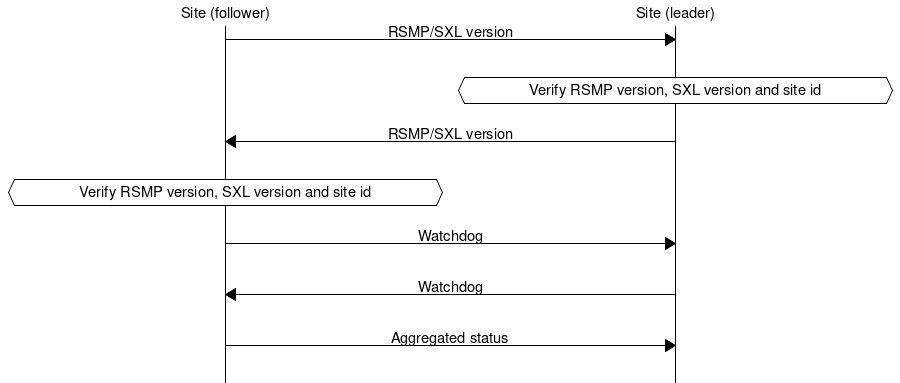
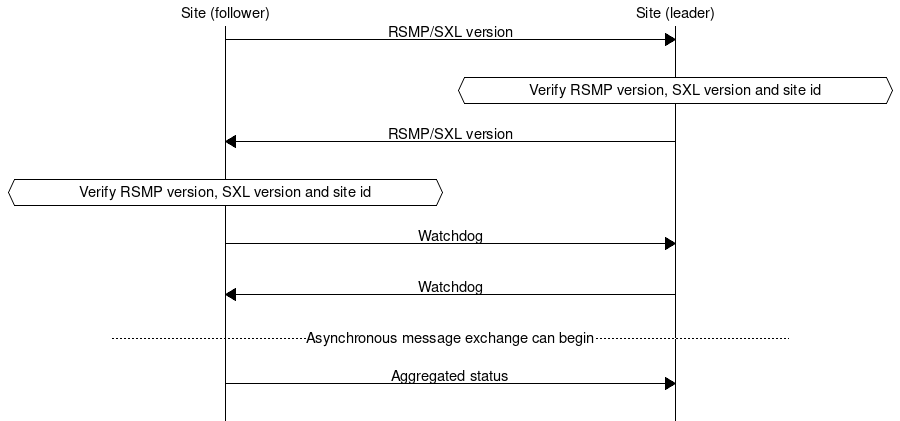
Update documentation

diff --git a/docs/core/3.2-draft/searchindex.js b/docs/core/3.2-draft/searchindex.js
@@ -1,1 +1,1 @@
-Search.setIndex({docnames:["applicability","applicability/basic_structure","applicability/object_model","applicability/scope","applicability/sxl","applicability/transport_of_data","changelog","definitions","index","introduction","purpose"],envversion:{"sphinx.domains.c":1,"sphinx.domains.changeset":1,"sphinx.domains.cpp":1,"sphinx.domains.javascript":1,"sphinx.domains.math":2,"sphinx.domains.python":1,"sphinx.domains.rst":1,"sphinx.domains.std":1,sphinx:55},filenames:["applicability.rst","applicability/basic_structure.rst","applicability/object_model.rst","applicability/scope.rst","applicability/sxl.rst","applicability/transport_of_data.rst","changelog.rst","definitions.rst","index.rst","introduction.rst","purpose.rst"],objects:{},objnames:{},objtypes:{},terms:{"018d5796e86a":1,"01t11":1,"02t14":5,"05070016f64a":1,"08t08":1,"08t09":1,"08t11":1,"08t12":1,"0a95e463":1,"0cfa956512e0":1,"0fd63726":1,"0x09":5,"0x0a":5,"0x0c":5,"0x0d":5,"166z":1,"192a":1,"266z":1,"280c52b6e6d8":1,"293z":1,"29t08":1,"29t13":1,"2a744145":1,"2b8142923c55":1,"2ea7edfc":1,"3313526e":1,"345z":5,"390z":1,"3a9d":1,"3d2a0097":1,"403a":1,"40a0":1,"416cg100":1,"41ac":1,"423f":1,"424e":1,"42ff":1,"431a":1,"434a":1,"44a4":1,"44f5":5,"45f8093762c5":1,"47a661e116db":1,"481wa001":1,"48451735cb0b":1,"49c6c824":1,"4abc":1,"4bc4":1,"4c09":1,"4c16":1,"4c19":1,"4db9":1,"4dd7":1,"4de5":1,"554dff0":1,"571z":1,"584z":1,"5c80a72c7092":1,"5ff528c5":1,"654z":1,"691z":1,"6bbcb26e":1,"6c9233":5,"6f968141":1,"70b55e312584":1,"735z":1,"740z":1,"78fe":1,"800c":1,"85e7":1,"860sg001":1,"860va001":1,"86bd":1,"881wa001":5,"8b57":1,"8bb4f972c076":1,"8c50":1,"8ca4":1,"8ddf":1,"8e3a":1,"956b":1,"97a9":1,"9c7b":1,"9cc5":1,"9e3d":1,"abstract":7,"boolean":1,"byte":5,"case":[1,3,4],"class":2,"default":[1,5],"float":1,"function":[0,1,3,7,8],"import":4,"long":[1,10],"new":[1,4,10],"null":1,"public":7,"short":1,"true":1,"try":5,"while":[4,5],CTS:7,For:[1,4,5,10],ITS:7,NTS:[1,4,7],Not:4,One:[1,5],TLS:5,The:[1,2,3,4,5,7,9,10],There:[1,4],Use:5,Used:[1,4,7],Yes:[4,5],a0001:1,a0004:1,a001:5,a021bc01:1,a082:5,a204c:5,a335:1,aTs:[1,5],abil:1,abl:[4,5,10],about:[1,4,10],accord:[1,4,5],acid:[1,5],ack:[1,5],acknowledeg:1,acknowledg:[0,5,8],act:5,action:[1,10],activ:[1,5],actual:[1,4],adapt:4,add:[1,10],added:4,addit:[1,10],address:5,adf832f22420:1,adf832f22425:1,adjust:5,administr:[3,7,10],adopt:2,affect:1,after:[1,5],again:[1,5],age:1,aggreg:[0,4,5,7,8,10],aggregatedstatu:1,aggregatedstatusrequest:1,agre:5,aim:9,alarm:[0,4,5,7,8,10],alarmcodeid:[1,4],all:[1,4,5,7,10],allow:[1,3,5],alorithm:7,alreadi:1,also:[1,4,10],alter:10,alwai:[1,5],among:7,analogu:1,analysi:10,ani:[1,3,5],answer:5,anyth:5,appli:[1,4,5],applic:[4,5,8,10],approach:1,area:[4,10],arg:1,argument:1,arrai:1,arrang:5,ascii:5,asn:2,asp:[1,5],associ:[1,4],ast:1,asynchron:5,attach:4,author:7,automat:4,autonom:4,ayyyi:1,b335:1,b4dd:1,b4e0:5,b6579d6d:1,b6bd7c96:1,b744:1,b777:1,b90a:1,ba80:1,base64:[1,4],base:[5,10],basecyclecount:1,basi:5,basic:[0,4,8],bb8a:1,bbcdd:7,bd58:1,be12ab9a:1,be19:1,becaus:[1,5],becom:[1,2],been:[1,2,10],befor:1,begin:5,being:[1,4],belong:1,below:[1,4],benefit:4,best:[0,8],between:[0,2,7,8,9,10],binari:[1,4,5],bitmap:4,block:4,both:[1,4,5,7],broken:10,buffer:[1,5],bus:5,c336:1,c7c47f57e100:1,cTS:1,camera:7,can:[1,2,3,4,5,7,10],card:10,cast:1,cat:[1,5],categor:4,categori:1,caus:1,cci:1,ceas:5,certif:5,cf76365e:1,chain:10,chang:[1,7,8,10],changelog:6,charact:[1,5],choic:1,cid:[1,5],circumst:7,clarifi:[4,6],classif:7,client:5,clock:[1,4,5],close:5,co_:1,code:[1,4,5,7],collabor:7,color:[1,5],column:[1,4],combin:1,come:5,command:[0,5,7,8,10],commandcodeid:[1,4],commandrequest:1,commandrespons:1,comment:1,common:4,commun:[0,1,2,4,7,8,9,10],communc:1,compar:4,compens:4,complet:5,compon:[1,5,7],componentid:1,concept:[5,7],concurr:5,configur:[1,4,5],confirm:1,conform:4,connect:[1,5],consecut:5,consequ:[3,5],consist:[2,7],consortium:7,construct:[1,10],consumpt:1,contain:[1,5,10],conten:4,content:[1,5,8],continu:[1,5],contract:10,contractor:10,control:[1,4,5,7,10],cooper:[1,5],correct:[1,4,10],correl:[1,4],correspond:4,could:[4,5],coupl:1,cover:[7,10],creat:[8,10],current:[1,5],cyclecount:1,d107cdfc3fcf:1,d109f4cfe487:1,d2c2da636584:1,d2e9a9a1:5,d593:1,d6d97f8b:1,dabb67f9:1,dac702545b8f:1,dash:1,data:[0,1,8],date:[1,6],datetim:1,datex2:[2,7],datex:[2,7],db844c4702a0:1,deactiv:1,deal:5,decim:1,decod:5,defin:[1,2,4,5,7,10],definit:[0,1,8],depend:[4,5,7,10],describ:[1,2,3,10],descript:[1,4],deserialis:1,design:4,desir:[1,4],destin:[1,5],detail:[1,4,10],detect:[1,5],determin:[1,4,7],develop:7,devic:5,differ:[1,5],digit:1,direct:[1,9],directli:[1,4,5],disabl:[1,4],disadvantag:4,disconnect:1,discrep:1,disrupt:[0,1,8],distinguish:5,document:[1,3,4,9],doe:[1,5],doesn:4,dot:1,doubl:1,driven:[1,5],driver:1,due:4,durat:1,dure:[1,5],dynam:[4,10],e68a0010:1,e6fb:1,e9db:1,each:[1,4,5,10],easi:5,easili:10,eeeffggg:7,effect:1,either:[1,4,5,10],element:[1,4],els:5,embed:5,emerg:4,empti:1,enabl:1,encrypt:5,end:[1,5],engin:[4,10],ensur:[1,5],enter:4,equip:[4,5,7,9,10],error:[1,5,10],especi:4,establish:[0,1,4,8],etc:[1,10],european:7,event:[1,5],eventu:2,everi:[1,4,5],exact:5,exactli:4,exampl:[1,4,5,10],except:[1,5],exchang:[0,5,7,8,10],exist:[1,4,5,7],expand:10,expect:5,explan:4,explicitli:1,express:1,extendedinputstatu:1,extens:7,extern:7,externalalarmcodeid:1,externalntsalarmcodeid:1,externalntsid:[1,4,7],extra:4,f04feda16986:1,f094946a863:1,f150:1,f1a13213:1,f2f0:1,f38e283a778:1,f48900bc:1,f6843ac0:1,f91c:1,facil:10,fail:5,failur:5,fals:1,fan:1,fetch:1,field:[4,5,7],fifo:5,fig:1,figur:[1,5],fire:1,first:[1,5],fit:4,fix:1,flexibl:4,flow:[5,7],focus:10,follow:[1,4,5],forc:1,format:[1,2,4,5,7],forme:5,formfe:5,four:10,free:1,from:[1,4,5,7,10],front:4,full:1,functionalposit:[1,4],functionalst:1,gener:[1,3,9],get:[1,4],give:[1,5,10],given:[1,4],glanc:10,global:1,goal:10,good:5,group:[1,7],guid:[1,4],guidelin:[8,10],handl:[1,5],has:[1,2,4,10],have:[4,7,10],heavili:1,help:4,hex:5,high:[1,4],histor:5,host:5,hour:1,how:[2,4,7],howev:[2,5],ident:[1,4,5],identifi:[1,4,5,7,8],ids:1,immedi:1,implement:[1,2,3,4,5],implicit:[1,5],impuls:1,inact:[1,5],inactiv:1,incl:5,includ:[1,2,5,10],incom:5,incorrectli:5,independ:2,indic:[1,10],individu:[1,4],inform:[1,3,4,10],initi:[1,5,6],inputstatu:1,instal:10,instanc:[1,4,10],instead:1,insuffici:1,integ:1,intent:1,interact:[1,5],interfac:[3,4,5,7,10],intern:[1,2,5],internet:7,intersect:1,interv:[1,5,10],introduct:8,iso:1,issu:[1,5],ital:4,item:10,its:[1,2],javascript:7,json:[1,2,5,7],know:5,known:[1,4],lack:[1,5],lamp:[1,5],languag:7,later:[2,5],latest:1,leach:1,lead:3,leader:5,least:[1,5],led:[4,10],level:[1,4,7,10],light:5,limit:4,line:1,list:[0,1,5,7,8,10],local:[1,7,10],log:[8,10],logic:[1,4],loos:1,lost:[1,5],low:4,lower:4,m0001:1,made:[5,7,10],mai:[4,5,7],maintain:7,mainten:[1,4,7],make:[4,5],manag:[4,5,7,10],mangement:[0,8],mani:[1,3,4,7,10],manouv:4,manual:1,manufactur:1,mark:1,markup:7,match:5,maximo:[7,10],mean:[1,4,10],mechan:3,messag:[0,5,7,8,10],messageack:[1,5],messagenotack:[1,5],meta:2,mid:[1,5],might:5,minimum:5,minor:6,minut:1,mismatch:5,miss:4,mix:1,model:[0,1,8],modif:4,monitor:[5,10],more:[1,4,7],mostli:4,motorist:1,mtype:[1,5],multipl:[0,1,8],must:[1,4,5],myyyi:1,name:[1,4,6,10],nation:7,natur:1,necessari:10,necessarili:7,need:[1,3,4,5,10],net:5,never:1,next:1,nordic:[3,7],notack:5,notacknowledg:[1,5],notat:7,note:[1,4,7],notion:4,notsuspend:[1,5],ntsobjectid:1,ntsoid:[1,5],number:[1,4],numer:1,object:[0,5,7,8,10],objecttyp:1,occur:[1,5,10],och:1,offer:9,old:[1,5],older:5,omid:1,omit:1,onc:[1,5],one:[4,5,7],ones:5,onli:[1,3,4,5],oper:10,oppos:10,option:[1,4,5],order:[1,4,5,10],organ:7,origin:1,other:[2,5,7,10],otherwis:[1,5],out:10,outag:5,outgo:5,outsid:3,overal:4,overview:10,own:[4,5],packet:[0,1,8],panel:10,paramet:4,pars:1,parser:5,part:[1,4,5],parti:[1,3],partial:1,particular:[1,5],partli:4,perform:[1,4,5],physic:7,pictur:4,place:1,plan:1,pleas:[1,4,7],point:[1,4],port:5,posit:[1,4,7],possibl:[1,2,4,5,7],power:[1,5],practic:[0,5,8],precis:1,predefin:[1,4],prerequisit:[1,4],present:[1,4,7,9],previous:5,pri:[1,5],primari:1,principl:[1,4,5,10],prioriti:[1,5],proce:5,process:[1,4],produc:10,properti:7,protocol:[2,3,4,6,7,9,10],provid:[1,2,3,4,10],purchas:[1,5],pure:5,purpos:[1,4,5,8],push:5,qualiti:1,rate:1,rea:1,reach:[1,5],read:[5,10],real:1,reason:[1,2,5],receiv:[1,5],recent:1,recommend:4,reconnect:[1,5],red:[1,5],reduc:[4,5],refer:[1,4],reflect:[1,4],regard:1,regardless:[1,5,9,10],region:[7,10],reject:5,relat:[1,7,10],relationship:[0,8],relev:[1,4],reliabl:5,remain:[1,5],remov:10,renam:4,renew:5,replac:[5,7],repres:[1,7,10],request:[0,4,5,8,10],requir:[0,1,5,8],reset:5,respect:4,respond:[1,4,5],respons:[0,4,5,8],rest:4,restart:[1,5],restor:5,resum:1,reus:10,revis:[1,6],rfc:1,risk:[4,5],road:[7,9,10],room:1,row:4,rsmp:[0,3,5,7],rsmsg:[1,5],rule:2,rvs:[1,5],s0001:1,s0003:1,s0096:1,sTs:1,salz:1,same:[1,4,5,7,9,10],samt:4,save:5,sci:1,scope:[0,8],search:5,second:[1,5],secondari:[1,5],section:[1,4,5],secur:[0,8],securitycod:1,see:[1,5,7],send:[1,4,5,7],sendonchang:1,sensit:1,sent:[1,4,5,10],separ:5,sequenc:[1,4,5],seri:4,serial:5,seriou:1,serv:5,server:5,set:[1,2,4,5,10],setvalu:1,sever:5,share:4,shift:1,shortli:1,should:[1,4,5,10],show:1,sid:1,side:[7,9,10],sign:[1,7],signal:[0,1,5,7,8,10],signalgroupstatu:1,simpl:[1,5],simplifi:[1,4],simultan:5,sinc:[1,4,5],singl:1,site:[0,2,4,7,8,10],siteid:[1,4,5],size:5,skill:10,soc:1,socket:5,some:[4,5],someth:1,soon:[1,10],sourc:[5,7],special:[4,5],specif:[1,3,4,7,10],specifi:7,speed:1,ssl:5,sta:[1,7],stage:1,standard:[1,2,7,9,10],start:[1,4],state:5,statist:10,statu:[0,5,7,8,10],status:[1,5,7],statuscodeid:[1,4],statusrequest:1,statusrespons:1,statussubscrib:1,statusunsubscrib:1,statusupd:1,stop:[1,4],store:5,string:1,structur:[0,8],subscrib:[1,5],subscript:[4,5,10],subsystem:1,success:1,suffici:10,suffix:[1,4],suggest:4,suitabl:4,supervis:[0,2,4,7,8,9,10],supervisor:[0,8],supplier:[3,9,10],support:[1,4,5,7],sure:4,suspend:5,suspens:1,swedish:[3,7,10],sxl:[0,5,7,8,10],synchron:[1,4],system:[0,2,4,7,8,9,10],syyyi:1,tab:5,tabl:[1,4],tag:[1,5],tcp:[5,7],tdok:[1,4,7],technic:[1,4,10],technolog:[2,10],temp:1,temperatur:1,term:[7,10],termin:[1,5],text:[1,4,5],than:[1,5],thei:[5,10],them:5,therefor:5,thi:[1,2,3,4,5,9,10],thing:7,third:3,those:[3,4,5],three:5,time:[1,10],timeout:1,timestamp:[1,5],timetamp:1,titl:[1,4],track:1,traffic:[1,4,5,7,10],transfer:[3,7],transit:1,transmit:4,transport:[0,3,7,8,10],treat:1,trick:5,tricki:5,troubleshoot:4,tunnel:1,two:1,type:[1,5,7,9,10],unblock:1,undefin:1,under:4,understood:1,unicod:1,uniq:1,uniqu:[1,4],unknown:1,unless:[1,5],unsubscrib:1,unsuccess:1,unsuspend:[1,5],until:1,updat:[1,4,5],updater:1,upon:[5,10],urt:1,use:[1,3,5,7],used:[1,4,5,7,10],user:[1,5],uses:[1,2,4,5],using:[1,2,4,5,7,10],usual:[1,10],utc:[1,4],utf:1,uuid:1,valu:5,variabl:1,variou:2,vehicl:1,vendor:10,ver:1,veri:5,verifi:[1,5],version:[0,5,6,8],via:[5,10],visibl:10,w3c:[1,7],wTs:1,wai:[1,2,5,9,10],wait:[1,5],watchdddog:1,watchdog:[0,5,6,8],web:[7,10],well:[5,10],were:5,when:[1,4,5,10],where:[1,4],which:[1,4,5,7,10],who:3,why:[1,2],wide:7,wind:1,within:[1,3],without:[1,5,10],won:5,work:[1,4,9,10],world:7,wrap:[0,8],written:4,wrong:5,www:7,xacid:[1,5],xml:[1,2,5,7],xnacid:[1,5],xnid:[1,5],yellowflash:1,yes:5,yyyi:1},titles:["4. Applicability","4.4. Basic structure","4.2. Object model","4.1. Scope","4.5. Signal Exchange List","4.3. Transport of data","5. Change log","1. Definitions","RSMP Specification","2. Introduction","3. Purpose"],titleterms:{"function":4,"return":[1,4],acknowledg:1,aggreg:1,alarm:1,answer:1,applic:0,argument:4,basic:1,best:4,between:[1,4,5],bit:1,chang:[4,6],command:[1,4],commun:5,compon:4,current:4,data:[4,5],date:4,definit:[4,7],differ:4,disrupt:5,equip:1,establish:5,exchang:[1,4],first:4,group:4,identifi:10,introduct:9,list:4,log:6,mangement:4,messag:[1,4],model:2,multipl:5,object:[1,2,4],one:1,oper:4,other:[1,4],overview:4,packet:5,page:4,practic:4,purpos:10,read:4,relationship:4,request:1,requir:[4,10],respons:[1,3],returnvalu:1,revis:4,rsmp:[1,4,8],scope:3,secur:5,sever:1,sheet:4,signal:4,singl:4,site:[1,5],specif:8,state:[1,4],statu:[1,4],structur:[1,4],subscript:1,supervis:[1,5],supervisor:5,suspend:1,sxl:[1,4],system:[1,5],time:4,transport:5,type:4,unsubscript:1,valu:[1,4],version:[1,4],watchdog:1,wrap:5,write:4}})
+Search.setIndex({docnames:["applicability","applicability/basic_structure","applicability/object_model","applicability/scope","applicability/sxl","applicability/transport_of_data","changelog","definitions","index","introduction","purpose"],envversion:{"sphinx.domains.c":1,"sphinx.domains.changeset":1,"sphinx.domains.cpp":1,"sphinx.domains.javascript":1,"sphinx.domains.math":2,"sphinx.domains.python":1,"sphinx.domains.rst":1,"sphinx.domains.std":1,sphinx:55},filenames:["applicability.rst","applicability/basic_structure.rst","applicability/object_model.rst","applicability/scope.rst","applicability/sxl.rst","applicability/transport_of_data.rst","changelog.rst","definitions.rst","index.rst","introduction.rst","purpose.rst"],objects:{},objnames:{},objtypes:{},terms:{"018d5796e86a":1,"01t11":1,"02t14":5,"05070016f64a":1,"08t08":1,"08t09":1,"08t11":1,"08t12":1,"0a95e463":1,"0cfa956512e0":1,"0fd63726":1,"0x09":5,"0x0a":5,"0x0c":5,"0x0d":5,"166z":1,"192a":1,"266z":1,"280c52b6e6d8":1,"293z":1,"29t08":1,"29t13":1,"2a744145":1,"2b8142923c55":1,"2ea7edfc":1,"3313526e":1,"345z":5,"390z":1,"3a9d":1,"3d2a0097":1,"403a":1,"40a0":1,"416cg100":1,"41ac":1,"423f":1,"424e":1,"42ff":1,"431a":1,"434a":1,"44a4":1,"44f5":5,"45f8093762c5":1,"47a661e116db":1,"481wa001":1,"48451735cb0b":1,"49c6c824":1,"4abc":1,"4bc4":1,"4c09":1,"4c16":1,"4c19":1,"4db9":1,"4dd7":1,"4de5":1,"554dff0":1,"571z":1,"584z":1,"5c80a72c7092":1,"5ff528c5":1,"654z":1,"691z":1,"6bbcb26e":1,"6c9233":5,"6f968141":1,"70b55e312584":1,"735z":1,"740z":1,"78fe":1,"800c":1,"85e7":1,"860sg001":1,"860va001":1,"86bd":1,"881wa001":5,"8b57":1,"8bb4f972c076":1,"8c50":1,"8ca4":1,"8ddf":1,"8e3a":1,"956b":1,"97a9":1,"9c7b":1,"9cc5":1,"9e3d":1,"abstract":7,"boolean":1,"byte":5,"case":[1,3,4],"class":2,"default":[1,5],"float":1,"function":[0,1,3,7,8],"import":4,"long":[1,10],"new":[1,4,10],"null":1,"public":7,"short":1,"true":1,"try":5,"while":[4,5],CTS:7,For:[1,4,5,10],ITS:7,NTS:[1,4,7],Not:4,One:[1,5],TLS:5,The:[1,2,3,4,5,7,9,10],There:[1,4],Use:5,Used:[1,4,7],Yes:[4,5],a0001:1,a0004:1,a001:5,a021bc01:1,a082:5,a204c:5,a335:1,aTs:[1,5],abil:1,abl:[4,5,10],about:[1,4,10],accord:[1,4,5],acid:[1,5],ack:[1,5],acknowledeg:1,acknowledg:[0,5,8],act:5,action:[1,10],activ:[1,5],actual:[1,4],adapt:4,add:[1,10],added:4,addit:[1,10],address:5,adf832f22420:1,adf832f22425:1,adjust:5,administr:[3,7,10],adopt:2,affect:1,after:[1,5],again:[1,5],age:1,aggreg:[0,4,5,7,8,10],aggregatedstatu:1,aggregatedstatusrequest:1,agre:5,aim:9,alarm:[0,4,5,7,8,10],alarmcodeid:[1,4],all:[1,4,5,7,10],allow:[1,3,5],alorithm:7,alreadi:1,also:[1,4,10],alter:10,alwai:[1,5],among:7,analogu:1,analysi:10,ani:[1,3,5],answer:5,anyth:5,appli:[1,4,5],applic:[4,5,8,10],approach:1,area:[4,10],arg:1,argument:1,arrai:1,arrang:5,ascii:5,asn:2,asp:[1,5],associ:[1,4],ast:1,asynchron:5,attach:4,author:7,automat:4,autonom:4,ayyyi:1,b335:1,b4dd:1,b4e0:5,b6579d6d:1,b6bd7c96:1,b744:1,b777:1,b90a:1,ba80:1,base64:[1,4],base:[5,10],basecyclecount:1,basi:5,basic:[0,4,8],bb8a:1,bbcdd:7,bd58:1,be12ab9a:1,be19:1,becaus:[1,5],becom:[1,2],been:[1,2,10],befor:1,begin:5,being:[1,4],belong:1,below:[1,4],benefit:4,best:[0,8],between:[0,2,7,8,9,10],binari:[1,4,5],bitmap:4,block:4,both:[1,4,5,7],broken:10,buffer:[1,5],bus:5,c336:1,c7c47f57e100:1,cTS:1,camera:7,can:[1,2,3,4,5,7,10],card:10,cast:1,cat:[1,5],categor:4,categori:1,caus:1,cci:1,ceas:5,certif:5,cf76365e:1,chain:10,chang:[1,7,8,10],changelog:6,charact:[1,5],choic:1,cid:[1,5],circumst:7,clarifi:[4,6],classif:7,client:5,clock:[1,4,5],close:5,co_:1,code:[1,4,5,7],collabor:7,color:[1,5],column:[1,4],combin:1,come:5,command:[0,5,7,8,10],commandcodeid:[1,4],commandrequest:1,commandrespons:1,comment:1,common:4,commun:[0,1,2,4,7,8,9,10],communc:1,compar:4,compens:4,complet:5,compon:[1,5,7],componentid:1,concept:[5,7],concurr:5,configur:[1,4,5],confirm:1,conform:4,connect:[1,5],consecut:5,consequ:[3,5],consist:[2,7],consortium:7,construct:[1,10],consumpt:1,contain:[1,5,10],conten:4,content:[1,5,8],continu:[1,5],contract:10,contractor:10,control:[1,4,5,7,10],cooper:[1,5],correct:[1,4,10],correl:[1,4],correspond:4,could:[4,5],coupl:1,cover:[7,10],creat:[8,10],current:[1,5],cyclecount:1,d107cdfc3fcf:1,d109f4cfe487:1,d2c2da636584:1,d2e9a9a1:5,d593:1,d6d97f8b:1,dabb67f9:1,dac702545b8f:1,dash:1,data:[0,1,8],date:[1,6],datetim:1,datex2:[2,7],datex:[2,7],db844c4702a0:1,deactiv:1,deal:5,decim:1,decod:5,defin:[1,2,4,5,7,10],definit:[0,1,8],depend:[4,5,7,10],describ:[1,2,3,10],descript:[1,4],deserialis:1,design:4,desir:[1,4],destin:[1,5],detail:[1,4,10],detect:[1,5],determin:[1,4,7],develop:7,devic:5,differ:[1,5],digit:1,direct:[1,9],directli:[1,4,5],disabl:[1,4],disadvantag:4,disconnect:1,discrep:1,disrupt:[0,1,8],distinguish:5,document:[1,3,4,9],doe:[1,5],doesn:4,dot:1,doubl:1,driven:[1,5],driver:1,due:4,durat:1,dure:[1,5],dynam:[4,10],e68a0010:1,e6fb:1,e9db:1,each:[1,4,5,10],easi:5,easili:10,eeeffggg:7,effect:1,either:[1,4,5,10],element:[1,4],els:5,embed:5,emerg:4,empti:1,enabl:1,encrypt:5,end:[1,5],engin:[4,10],ensur:[1,5],enter:4,equip:[4,5,7,9,10],error:[1,5,10],especi:4,establish:[0,1,4,8],etc:[1,10],european:7,event:[1,5],eventu:2,everi:[1,4,5],exact:5,exactli:4,exampl:[1,4,5,10],except:[1,5],exchang:[0,5,7,8,10],exist:[1,4,5,7],expand:10,expect:5,explan:4,explicitli:1,express:1,extendedinputstatu:1,extens:7,extern:7,externalalarmcodeid:1,externalntsalarmcodeid:1,externalntsid:[1,4,7],extra:4,f04feda16986:1,f094946a863:1,f150:1,f1a13213:1,f2f0:1,f38e283a778:1,f48900bc:1,f6843ac0:1,f91c:1,facil:10,fail:5,failur:5,fals:1,fan:1,fetch:1,field:[4,5,7],fifo:5,fig:1,figur:[1,5],fire:1,first:[1,5],fit:4,fix:1,flexibl:4,flow:[5,7],focus:10,follow:[1,4,5],forc:1,format:[1,2,4,5,7],forme:5,formfe:5,four:10,free:1,from:[1,4,5,7,10],front:4,full:1,functionalposit:[1,4],functionalst:1,gener:[1,3,9],get:[1,4],give:[1,5,10],given:[1,4],glanc:10,global:1,goal:10,good:5,group:[1,7],guid:[1,4],guidelin:[8,10],handl:[1,5],has:[1,2,4,10],have:[4,7,10],heavili:1,help:4,hex:5,high:[1,4],histor:5,host:5,hour:1,how:[2,4,7],howev:[2,5],ident:[1,4,5],identifi:[1,4,5,7,8],ids:1,immedi:1,implement:[1,2,3,4,5],implicit:[1,5],impuls:1,inact:[1,5],inactiv:1,incl:5,includ:[1,2,5,10],incom:5,incorrectli:5,independ:2,indic:[1,10],individu:[1,4],inform:[1,3,4,10],initi:[1,5,6],inputstatu:1,instal:10,instanc:[1,4,10],instead:1,insuffici:1,integ:1,intent:1,interact:[1,5],interfac:[3,4,5,7,10],intern:[1,2,5],internet:7,intersect:1,interv:[1,5,10],introduct:8,iso:1,issu:[1,5],ital:4,item:10,its:[1,2],javascript:7,json:[1,2,5,7],know:5,known:[1,4],lack:[1,5],lamp:[1,5],languag:7,later:[2,5],latest:1,leach:1,lead:3,leader:5,least:[1,5],led:[4,10],level:[1,4,7,10],light:5,limit:4,line:1,list:[0,1,5,7,8,10],local:[1,7,10],log:[8,10],logic:[1,4],loos:1,lost:[1,5],low:4,lower:4,m0001:1,made:[5,7,10],mai:[4,5,7],maintain:7,mainten:[1,4,7],make:[4,5],manag:[4,5,7,10],mangement:[0,8],mani:[1,3,4,7,10],manouv:4,manual:1,manufactur:1,mark:1,markup:7,match:5,maximo:[7,10],mean:[1,4,5,10],mechan:3,messag:[0,5,7,8,10],messageack:[1,5],messagenotack:[1,5],meta:2,mid:[1,5],might:5,minimum:5,minor:6,minut:1,mismatch:5,miss:4,mix:1,model:[0,1,8],modif:4,monitor:[5,10],more:[1,4,7],mostli:4,motorist:1,mtype:[1,5],multipl:[0,1,8],must:[1,4,5],myyyi:1,name:[1,4,6,10],nation:7,natur:1,necessari:10,necessarili:7,need:[1,3,4,5,10],net:5,never:1,next:1,nordic:[3,7],notack:5,notacknowledg:[1,5],notat:7,note:[1,4,7],notion:4,notsuspend:[1,5],ntsobjectid:1,ntsoid:[1,5],number:[1,4],numer:1,object:[0,5,7,8,10],objecttyp:1,occur:[1,5,10],och:1,offer:9,old:[1,5],older:5,omid:1,omit:1,onc:[1,5],one:[4,5,7],ones:5,onli:[1,3,4,5],oper:10,oppos:10,option:[1,4,5],order:[1,4,5,10],organ:7,origin:1,other:[2,5,7,10],otherwis:[1,5],out:10,outag:5,outgo:5,outsid:3,overal:4,overview:10,own:[4,5],packet:[0,1,8],panel:10,paramet:4,pars:1,parser:5,part:[1,4,5],parti:[1,3],partial:1,particular:[1,5],partli:4,perform:[1,4,5],physic:7,pictur:4,place:1,plan:1,pleas:[1,4,7],point:[1,4],port:5,posit:[1,4,7],possibl:[1,2,4,5,7],power:[1,5],practic:[0,5,8],precis:1,predefin:[1,4],prerequisit:[1,4],present:[1,4,7,9],previous:5,pri:[1,5],primari:1,principl:[1,4,5,10],prioriti:[1,5],proce:5,process:[1,4],produc:10,properti:7,protocol:[2,3,4,6,7,9,10],provid:[1,2,3,4,10],purchas:[1,5],pure:5,purpos:[1,4,5,8],push:5,qualiti:1,rate:1,rea:1,reach:[1,5],read:[5,10],real:1,reason:[1,2,5],receiv:[1,5],recent:1,recommend:4,reconnect:[1,5],red:[1,5],reduc:[4,5],refer:[1,4],reflect:[1,4],regard:1,regardless:[1,5,9,10],region:[7,10],reject:5,relat:[1,7,10],relationship:[0,8],relev:[1,4],reliabl:5,remain:[1,5],remov:10,renam:4,renew:5,replac:[5,7],repres:[1,7,10],request:[0,4,5,8,10],requir:[0,1,5,8],reset:5,respect:4,respond:[1,4,5],respons:[0,4,5,8],rest:4,restart:[1,5],restor:5,resum:1,reus:10,revis:[1,6],rfc:1,risk:[4,5],road:[7,9,10],room:1,row:4,rsmp:[0,3,5,7],rsmsg:[1,5],rule:2,rvs:[1,5],s0001:1,s0003:1,s0096:1,sTs:1,salz:1,same:[1,4,5,7,9,10],samt:4,save:5,sci:1,scope:[0,8],search:5,second:[1,5],secondari:[1,5],section:[1,4,5],secur:[0,8],securitycod:1,see:[1,5,7],send:[1,4,5,7],sendonchang:1,sensit:1,sent:[1,4,5,10],separ:5,sequenc:[1,4,5],seri:4,serial:5,seriou:1,serv:5,server:5,set:[1,2,4,5,10],setvalu:1,sever:5,share:4,shift:1,shortli:1,should:[1,4,5,10],show:1,sid:1,side:[7,9,10],sign:[1,7],signal:[0,1,5,7,8,10],signalgroupstatu:1,simpl:[1,5],simplifi:[1,4],simultan:5,sinc:[1,4,5],singl:1,site:[0,2,4,7,8,10],siteid:[1,4,5],size:5,skill:10,soc:1,socket:5,some:[4,5],someth:1,soon:[1,10],sourc:[5,7],special:[4,5],specif:[1,3,4,7,10],specifi:7,speed:1,ssl:5,sta:[1,7],stage:1,standard:[1,2,7,9,10],start:[1,4],state:5,statist:10,statu:[0,5,7,8,10],status:[1,5,7],statuscodeid:[1,4],statusrequest:1,statusrespons:1,statussubscrib:1,statusunsubscrib:1,statusupd:1,stop:[1,4],store:5,string:1,structur:[0,8],subscrib:[1,5],subscript:[4,5,10],subsystem:1,success:1,suffici:10,suffix:[1,4],suggest:4,suitabl:4,supervis:[0,2,4,7,8,9,10],supervisor:[0,8],supplier:[3,9,10],support:[1,4,5,7],sure:4,suspend:5,suspens:1,swedish:[3,7,10],sxl:[0,5,7,8,10],synchron:[1,4],system:[0,2,4,7,8,9,10],syyyi:1,tab:5,tabl:[1,4],tag:[1,5],tcp:[5,7],tdok:[1,4,7],technic:[1,4,10],technolog:[2,10],temp:1,temperatur:1,term:[7,10],termin:[1,5],text:[1,4,5],than:[1,5],thei:[5,10],them:5,therefor:5,thi:[1,2,3,4,5,9,10],thing:7,third:3,those:[3,4,5],three:5,time:[1,10],timeout:1,timestamp:[1,5],timetamp:1,titl:[1,4],track:1,traffic:[1,4,5,7,10],transfer:[3,7],transit:1,transmit:4,transport:[0,3,7,8,10],treat:1,trick:5,tricki:5,troubleshoot:4,tunnel:1,two:1,type:[1,5,7,9,10],unblock:1,undefin:1,under:4,understood:1,unicod:1,uniq:1,uniqu:[1,4],unknown:1,unless:[1,5],unsubscrib:1,unsuccess:1,unsuspend:[1,5],until:1,updat:[1,4,5],updater:1,upon:[5,10],urt:1,use:[1,3,5,7],used:[1,4,5,7,10],user:[1,5],uses:[1,2,4,5],using:[1,2,4,5,7,10],usual:[1,10],utc:[1,4],utf:1,uuid:1,valu:5,variabl:1,variou:2,vehicl:1,vendor:10,ver:1,veri:5,verifi:[1,5],version:[0,5,6,8],via:[5,10],visibl:10,w3c:[1,7],wTs:1,wai:[1,2,5,9,10],wait:[1,5],watchdddog:1,watchdog:[0,5,6,8],web:[7,10],well:[5,10],were:5,when:[1,4,5,10],where:[1,4],which:[1,4,5,7,10],who:3,why:[1,2],wide:7,wind:1,within:[1,3],without:[1,5,10],won:5,work:[1,4,9,10],world:7,wrap:[0,8],written:4,wrong:5,www:7,xacid:[1,5],xml:[1,2,5,7],xnacid:[1,5],xnid:[1,5],yellowflash:1,yes:5,yyyi:1},titles:["4. Applicability","4.4. Basic structure","4.2. Object model","4.1. Scope","4.5. Signal Exchange List","4.3. Transport of data","5. Change log","1. Definitions","RSMP Specification","2. Introduction","3. Purpose"],titleterms:{"function":4,"return":[1,4],acknowledg:1,aggreg:1,alarm:1,answer:1,applic:0,argument:4,basic:1,best:4,between:[1,4,5],bit:1,chang:[4,6],command:[1,4],commun:5,compon:4,current:4,data:[4,5],date:4,definit:[4,7],differ:4,disrupt:5,equip:1,establish:5,exchang:[1,4],first:4,group:4,identifi:10,introduct:9,list:4,log:6,mangement:4,messag:[1,4],model:2,multipl:5,object:[1,2,4],one:1,oper:4,other:[1,4],overview:4,packet:5,page:4,practic:4,purpos:10,read:4,relationship:4,request:1,requir:[4,10],respons:[1,3],returnvalu:1,revis:4,rsmp:[1,4,8],scope:3,secur:5,sever:1,sheet:4,signal:4,singl:4,site:[1,5],specif:8,state:[1,4],statu:[1,4],structur:[1,4],subscript:1,supervis:[1,5],supervisor:5,suspend:1,sxl:[1,4],system:[1,5],time:4,transport:5,type:4,unsubscript:1,valu:[1,4],version:[1,4],watchdog:1,wrap:5,write:4}})

diff --git a/docs/core/3.2-draft/applicability/transport_of_data.html b/docs/core/3.2-draft/applicability/transport_of_data.html
@@ -189,8 +189,9 @@ is used (TCP/IP), and the data sent is based on the JSon format, i.e.
 formatted text.</p>
 <p>Messages can be sent asynchronously, i.e. while the site or supervision
 system is waiting for an answer to a previously sent message it can
-can continue to send messages. The exception in the RSMP / SXL version message
-(see section <a class="reference internal" href="basic_structure.html#rsmpsxl-version"><span class="std std-ref">RSMP/SXL Version</span></a>).</p>
+can continue to send messages. The exception is during the first part of
+communication establishment (see section <a class="reference internal" href="#communication-establishment-between-sites-and-supervision-system"><span class="std std-ref">Communication establishment between sites and supervision system</span></a>
+and <a class="reference internal" href="#communication-establishment-between-sites"><span class="std std-ref">Communication establishment between sites</span></a>).</p>
 <p>RSMP connections can be established:</p>
 <ul class="simple">
 <li>Between site and supervision system.
@@ -281,6 +282,8 @@ with a MessageNotAck and closes the connection.
 (see section <a class="reference internal" href="basic_structure.html#message-acknowledgement"><span class="std std-ref">Message acknowledgement</span></a>)</li>
 <li>The site sends a Watchdog (according to section <a class="reference internal" href="basic_structure.html#watchdog"><span class="std std-ref">Watchdog</span></a>)</li>
 <li>The system sends a Watchdog (according to section <a class="reference internal" href="basic_structure.html#watchdog"><span class="std std-ref">Watchdog</span></a>)</li>
+<li>Asynchronous message exchange can begin. This means that commands and
+statuses are allowed to be sent</li>
 <li>Aggregated status (according to section <a class="reference internal" href="basic_structure.html#aggregated-status-message"><span class="std std-ref">Aggregated status message</span></a>).
 If no object for aggregated status is defined in the signal exchange list
 then no aggregated status message is sent.</li>
@@ -334,6 +337,8 @@ responds with a MessageNotAck and closes the connection.
 (see section <a class="reference internal" href="basic_structure.html#message-acknowledgement"><span class="std std-ref">Message acknowledgement</span></a>)</li>
 <li>The follower site sends Watchdog (according to section <a class="reference internal" href="basic_structure.html#watchdog"><span class="std std-ref">Watchdog</span></a>)</li>
 <li>The leader site sends Watchdog (according to section <a class="reference internal" href="basic_structure.html#watchdog"><span class="std std-ref">Watchdog</span></a>)</li>
+<li>Asynchronous message exchange can begin. This means that commands and
+statuses are allowed to be sent</li>
 <li>Aggregated status (according to section <a class="reference internal" href="basic_structure.html#aggregated-status-message"><span class="std std-ref">Aggregated status message</span></a>)
 If no object for aggregated status is defined in the signal exchange list
 then no aggregated status message is sent.</li>
